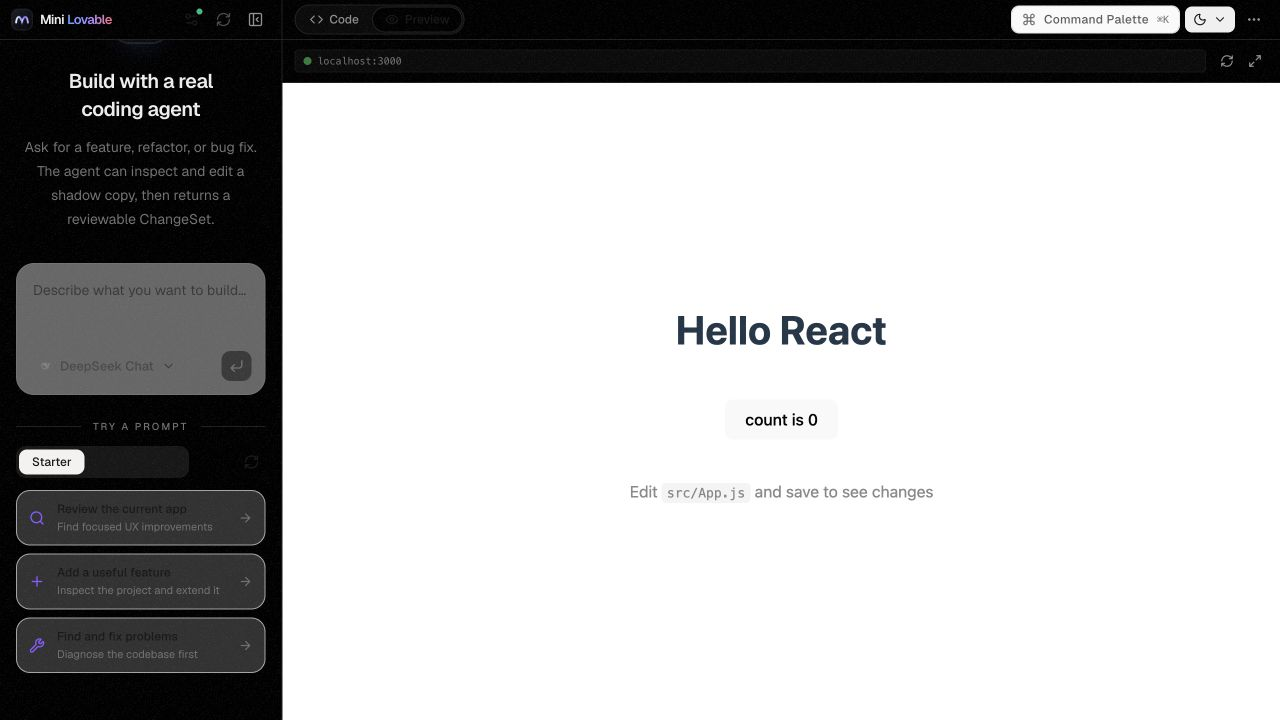
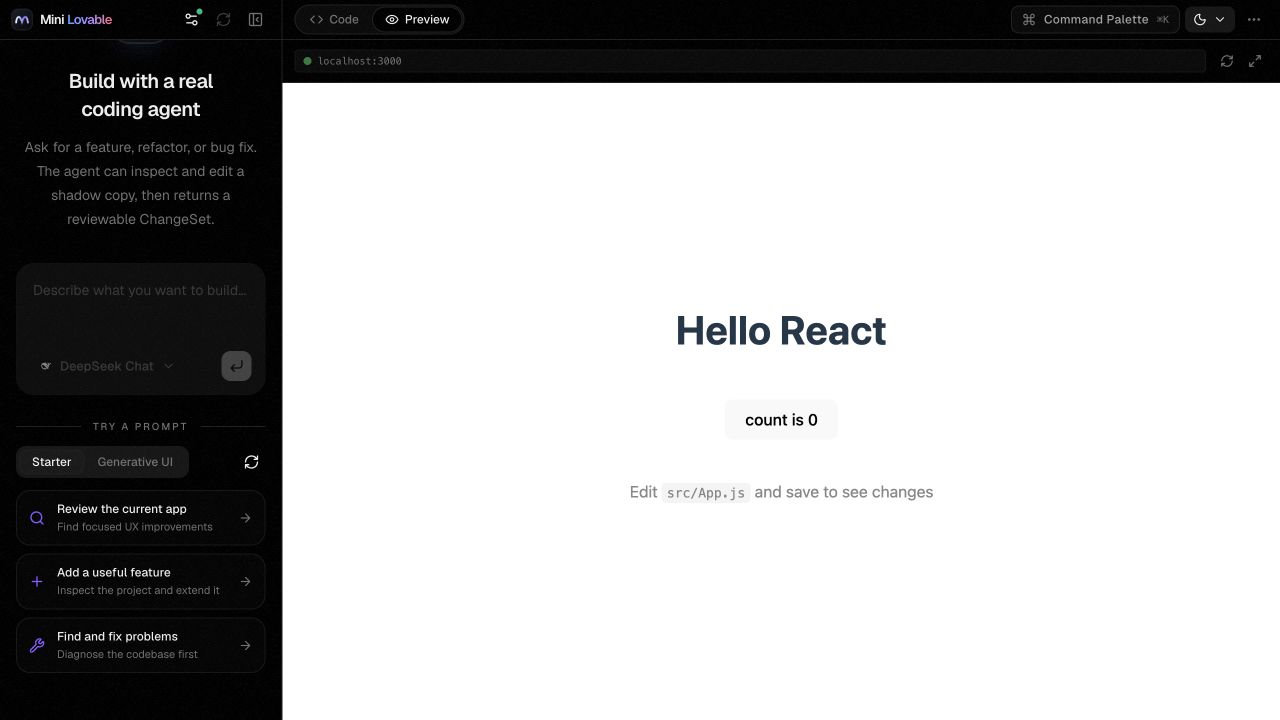
Fix theme demo transition frames

diff --git a/README.md b/README.md
@@ -4,17 +4,9 @@
 
 ## Demo
 
-工作台内置 6 种主题，可从右上角主题菜单切换，也可使用 `D` / `N` / `S` / `R` / `W` / `B` 快捷键。点击带 🔊 的封面可播放包含主题环境音的视频。
+工作台内置 6 种主题，可从右上角主题菜单切换，也可使用 `D` / `N` / `S` / `R` / `W` / `B` 快捷键。
 
-| Day | Night |
-|---|---|
-| ![Day 主题](./docs/themes/day.jpg) | ![Night 主题](./docs/themes/night.jpg) |
-| Summer 🔊 | Drizzle 🔊 |
-| [![Summer 主题视频封面](./docs/themes/summer.jpg)](./docs/themes/summer.mp4) | [![Drizzle 主题视频封面](./docs/themes/drizzle.jpg)](./docs/themes/drizzle.mp4) |
-| [播放 Summer 主题视频（含环境音）](./docs/themes/summer.mp4) | [播放 Drizzle 主题视频（含雨声）](./docs/themes/drizzle.mp4) |
-| Snow 🔊 | Breeze |
-| [![Snow 主题视频封面](./docs/themes/snow.jpg)](./docs/themes/snow.mp4) | ![Breeze 主题](./docs/themes/breeze.jpg) |
-| [播放 Snow 主题视频（含环境音）](./docs/themes/snow.mp4) |  |
+![Mini Lovable Day、Night、Summer、Drizzle、Snow 与 Breeze 主题演示](./docs/themes/themes.gif)
 
 Summer 主题 fork from https://dany.works/
 